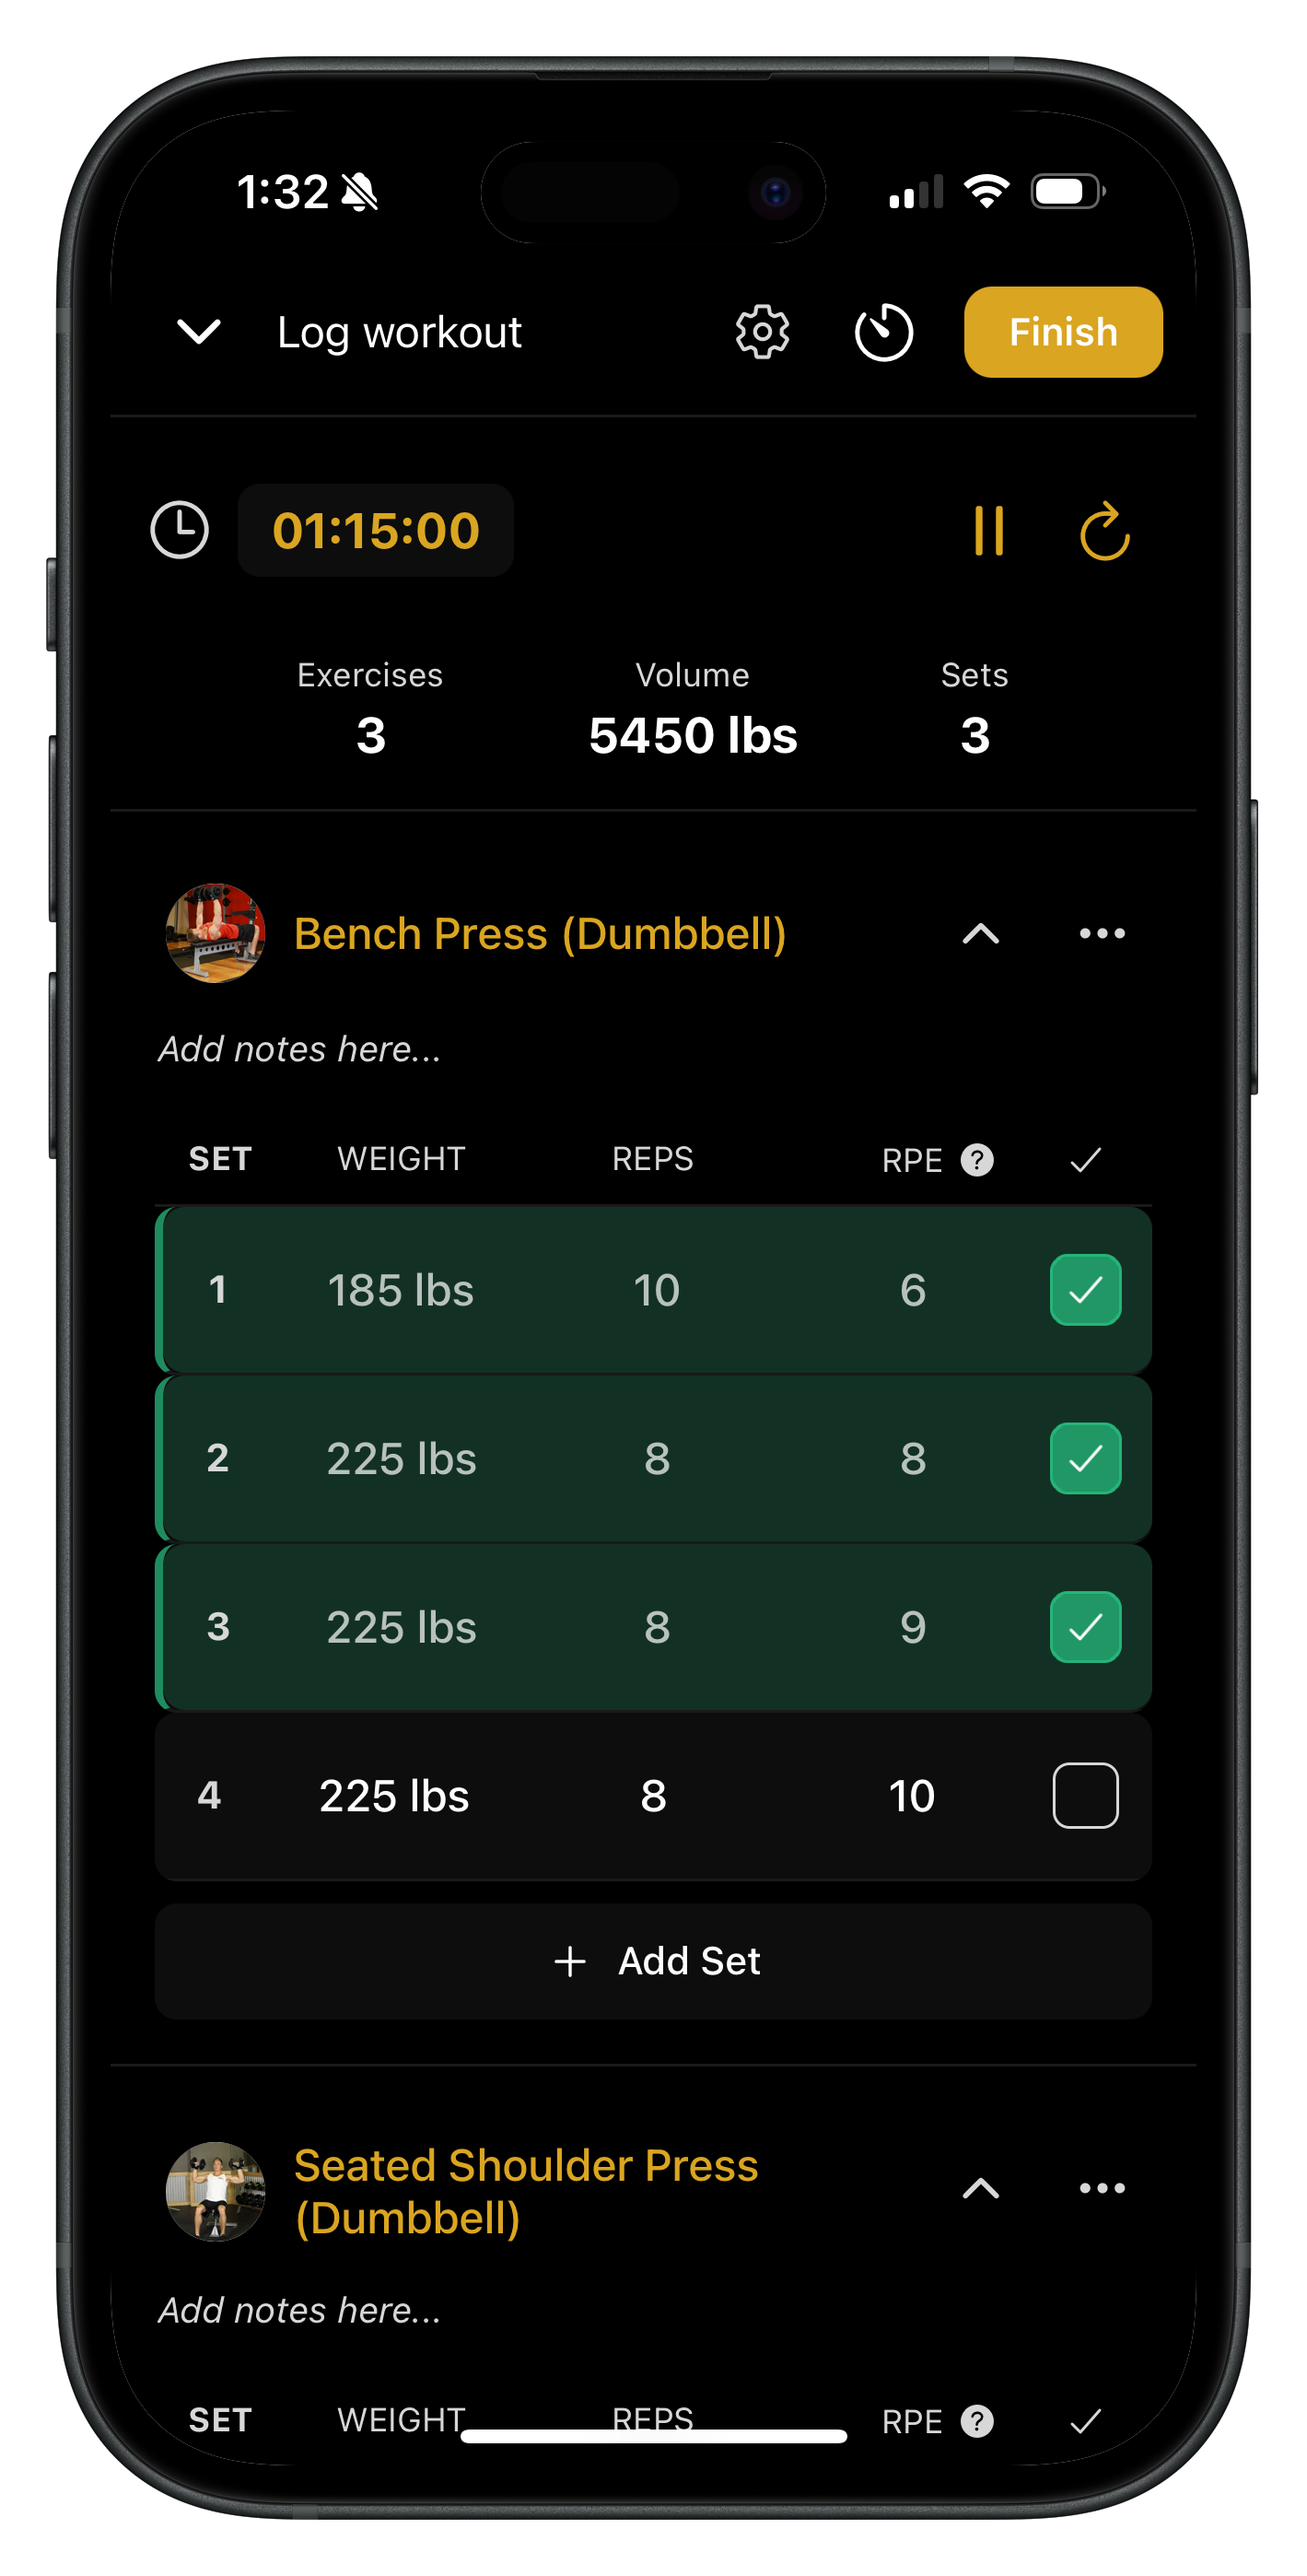
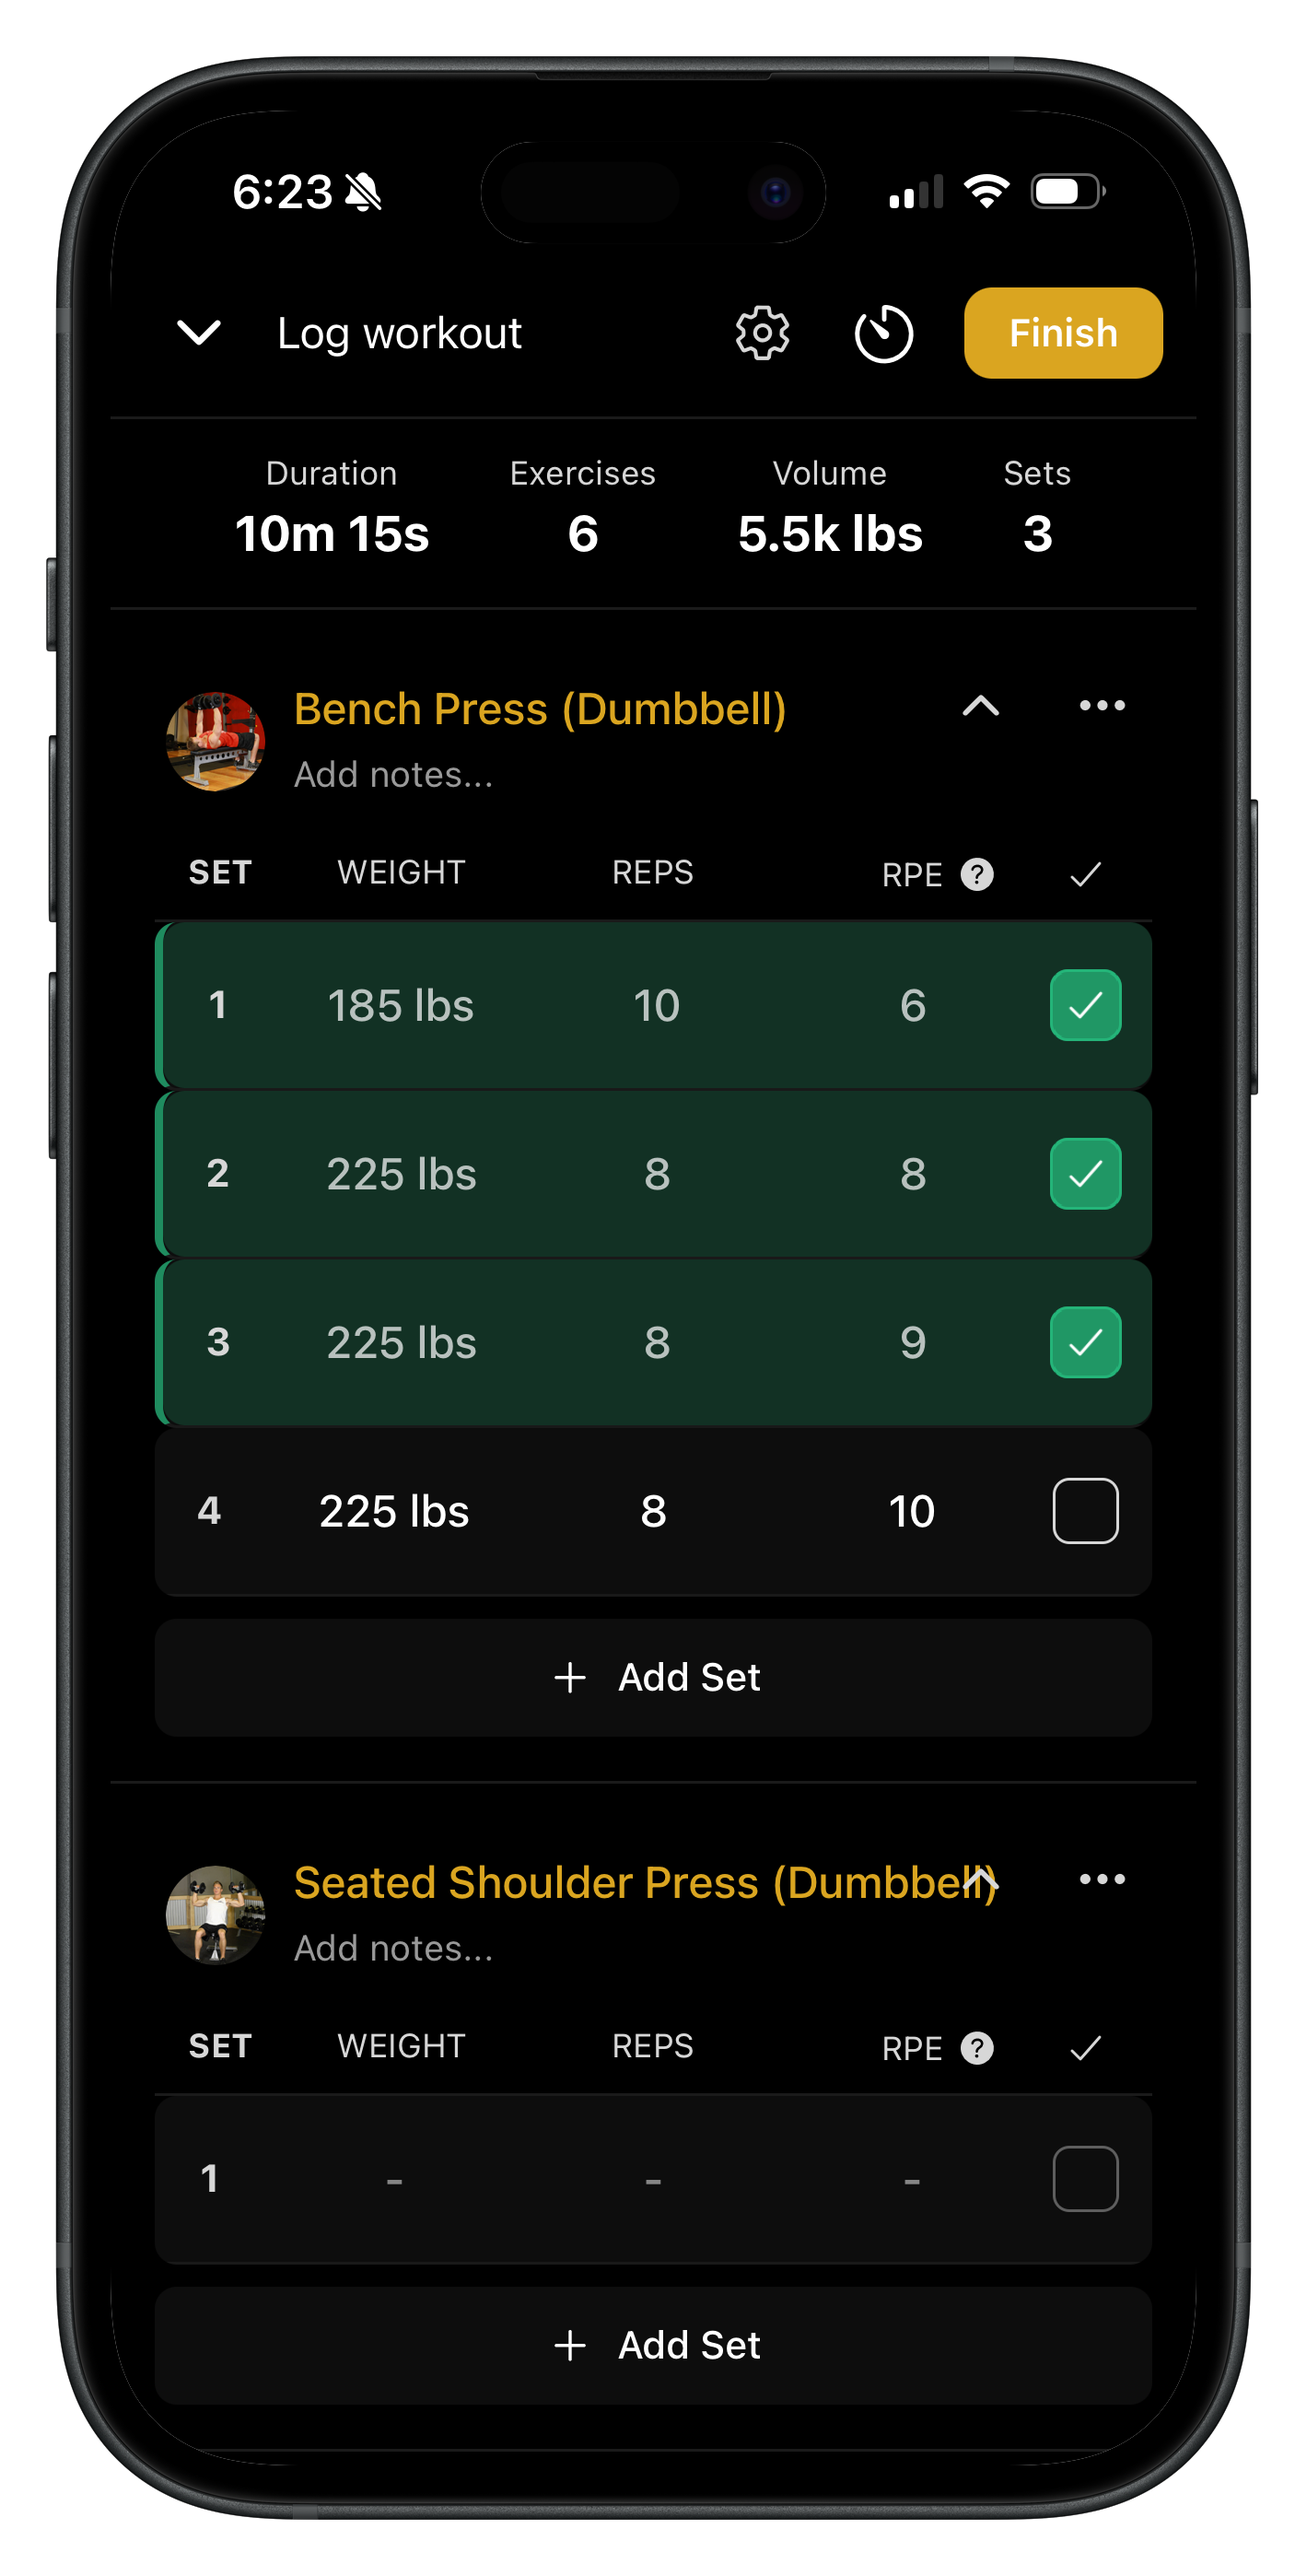
add google play button and update screenshots

diff --git a/index.html b/index.html
@@ -485,7 +485,7 @@
 
         .feature-image img {
             width: 80%;
-            height: 65%;
+            height: 77%;
             object-fit: cover;
             border-radius: 12px;
             object-position: top;
@@ -1075,9 +1075,9 @@
                         <a href="https://apps.apple.com/us/app/lift-track-share-atlas/id6751509546" class="download-btn">
                             <img src="assets/Download_on_the_App_Store_Badge_US-UK_RGB_blk_092917.svg" alt="Download on the App Store">
                         </a>
-                        <!-- <a href="#" class="download-btn">
+                        <a href="https://play.google.com/store/apps/details?id=com.atlasfitness.atlas" class="download-btn">
                             <img src="assets/GetItOnGooglePlay_Badge_Web_color_English.png" alt="Get it on Google Play">
-                        </a> -->
+                        </a>
                     </div>
 
                     <!-- <div class="rating">
@@ -1170,9 +1170,9 @@
                 <a href="https://apps.apple.com/us/app/lift-track-share-atlas/id6751509546" class="download-btn">
                     <img src="assets/Download_on_the_App_Store_Badge_US-UK_RGB_blk_092917.svg" alt="Download on the App Store">
                 </a>
-                <!-- <a href="#" class="download-btn">
+                <a href="https://play.google.com/store/apps/details?id=com.atlasfitness.atlas" class="download-btn">
                     <img src="assets/GetItOnGooglePlay_Badge_Web_color_English.png" alt="Get it on Google Play">
-                </a> -->
+                </a>
             </div>
         </div>
     </section>
